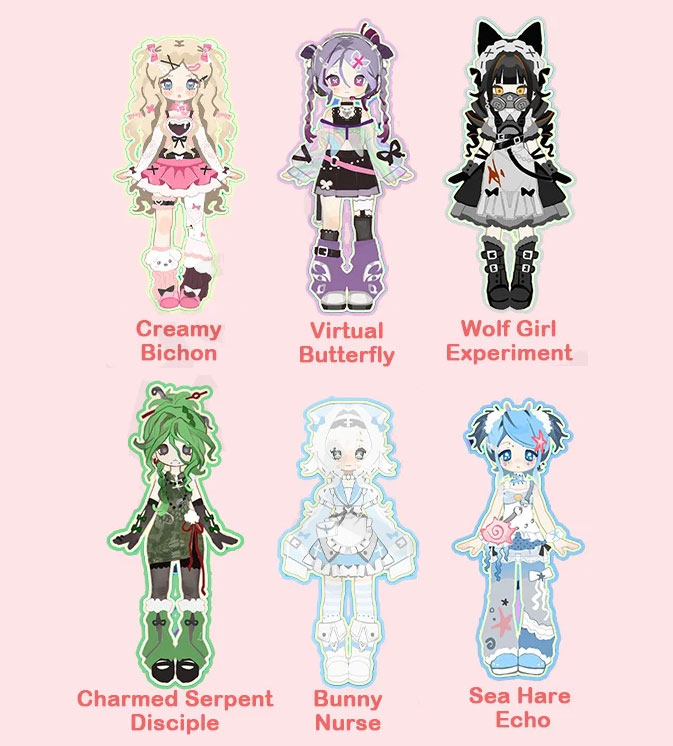
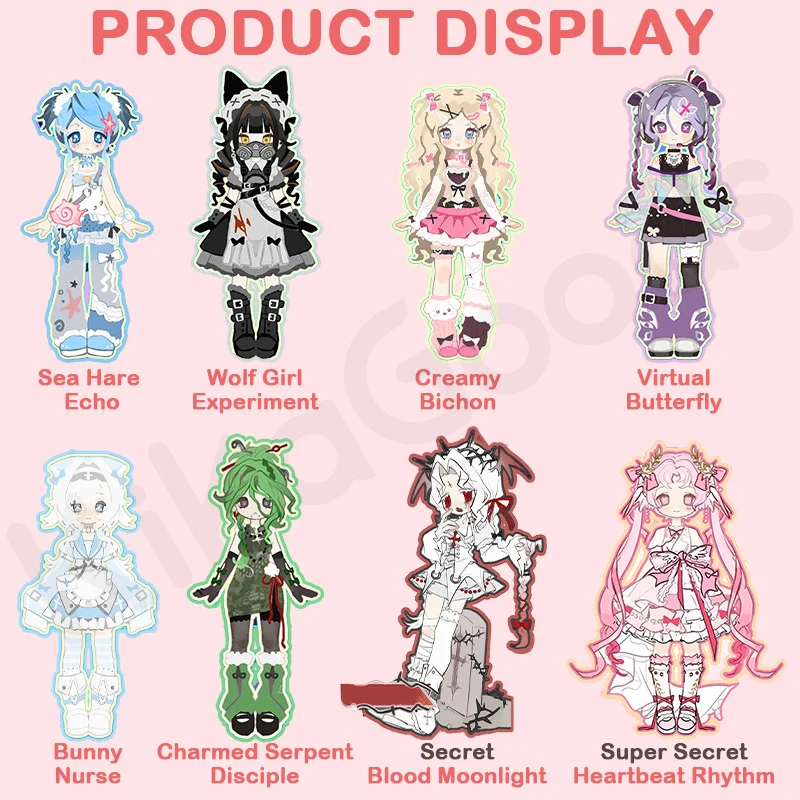
fixes

diff --git a/about.html b/about.html
@@ -32,27 +32,27 @@
             <div class="about-card">
                 <h2>What is BJD Picker?</h2>
                 <p>
-                    BJD Picker is a comprehensive database and discovery platform for Chinese Ball-Jointed Doll (BJD) 
-                    boxed sets. We help collectors and enthusiasts find the perfect sets for their collections.
+                    BJD Picker is a comprehensive database and discovery platform for Ball-Jointed Doll (BJD) 
+                    boxed sets. We help collectors and enthusiasts find possible placements in blind box sets.
                 </p>
             </div>
 
             <div class="about-card">
-                <h2>Our Mission</h2>
+                <h2>Disclaimer</h2>
                 <p>
-                    To make it easy for BJD fans to explore, search, and discover boxed sets from Chinese manufacturers. 
-                    We provide detailed information about characters, positions, and rarity to help you make informed choices.
+                    Because our placements are community driven and mostly from watching live unboxings, there is always still a risk of not getting the one you want.
+					Our goal is to inform others of possible patterns that have been observed in unboxings. Manufaturers could change this at any moment though.
+					We will do our best to keep this site updated.
                 </p>
             </div>
 
             <div class="about-card">
                 <h2>Features</h2>
                 <ul>
-                    <li>Search for sets by name or character</li>
+                    <li>Search for sets by name</li>
                     <li>Browse newly added collections</li>
                     <li>Explore popular and trending sets</li>
                     <li>Learn character positions in each set</li>
-                    <li>Detailed set information and descriptions</li>
                 </ul>
             </div>
         </section>

diff --git a/index.html b/index.html
@@ -24,7 +24,7 @@
         <!-- Header Section -->
         <header class="header">
             <h1>All Sets</h1>
-            <p>Find Recorded Placements for BJD Blind Boxes!</p>
+            <p>Find Community Placements for BJD Blind Boxes!</p>
         </header>
 
         <!-- Search Section -->
@@ -34,7 +34,7 @@
                     type="text" 
                     id="searchInput" 
                     class="search-box" 
-                    placeholder="Search for a set or character..."
+                    placeholder="Search for a set..."
                 >
                 <button id="clearBtn" class="clear-btn">Clear</button>
             </div>

diff --git a/new.html b/new.html
@@ -34,7 +34,7 @@
                     type="text" 
                     id="searchInput" 
                     class="search-box" 
-                    placeholder="Search for a set or character..."
+                    placeholder="Search for a set..."
                 >
                 <button id="clearBtn" class="clear-btn">Clear</button>
             </div>

diff --git a/popular.html b/popular.html
@@ -34,7 +34,7 @@
                     type="text" 
                     id="searchInput" 
                     class="search-box" 
-                    placeholder="Search for a set or character..."
+                    placeholder="Search for a set..."
                 >
                 <button id="clearBtn" class="clear-btn">Clear</button>
             </div>
